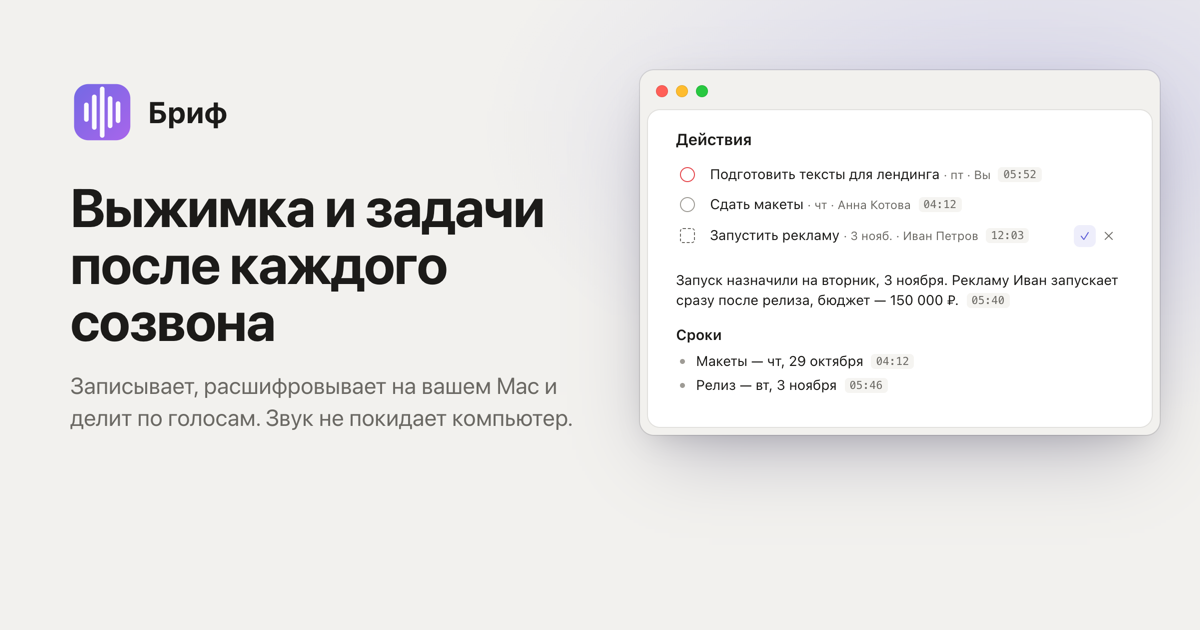
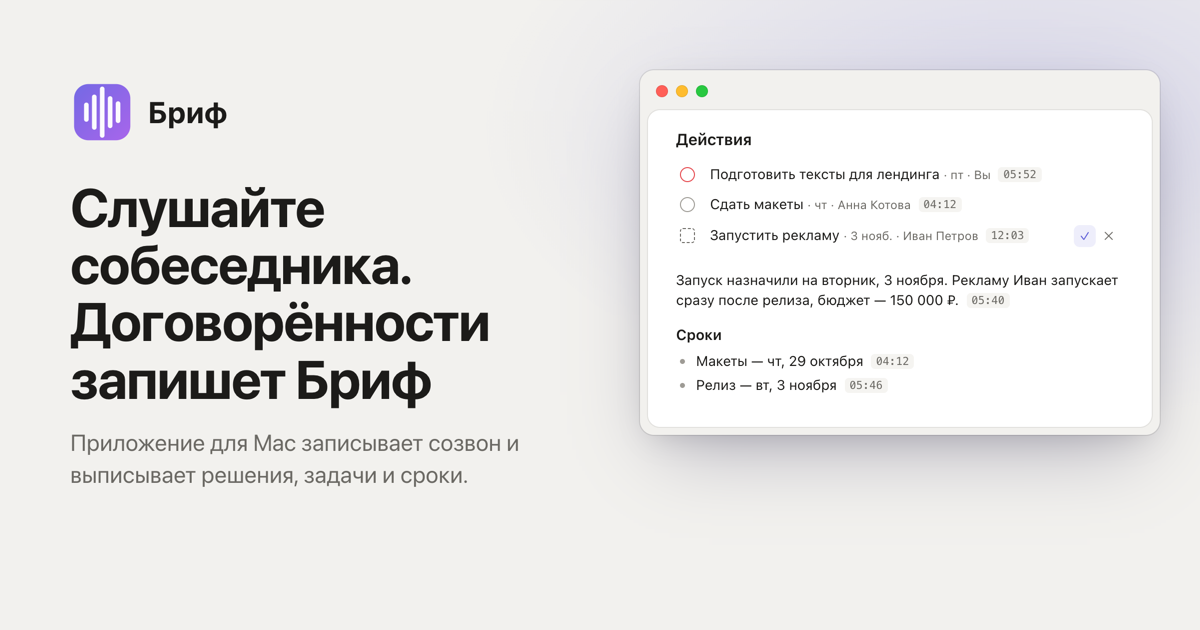
Сайт: 4d17543

Changed region(s): [[0.0617, 0.3016, 0.4933, 0.7841]]

diff --git a/index.html b/index.html
@@ -3,12 +3,12 @@
 <head>
 <meta charset="utf-8">
 <meta name="viewport" content="width=device-width, initial-scale=1">
-<title>Бриф — записывает созвоны и делает выжимку с задачами · macOS</title>
+<title>Бриф — слушайте собеседника, договорённости запишет Бриф · macOS</title>
 <meta name="description" content="Приложение для Mac: записывает созвон, расшифровывает его на компьютере, делит по голосам и собирает выжимку с задачами. Звук не покидает Mac.">
 <meta property="og:type" content="website">
 <meta property="og:locale" content="ru_RU">
-<meta property="og:title" content="Бриф — выжимка и задачи после каждого созвона">
-<meta property="og:description" content="Записывает созвон, расшифровывает на вашем Mac, делит по голосам и собирает договорённости. Сейчас бесплатно.">
+<meta property="og:title" content="Слушайте собеседника. Договорённости запишет Бриф">
+<meta property="og:description" content="Приложение для Mac записывает созвон и выписывает решения, задачи и сроки. Звук не покидает компьютер. Сейчас бесплатно.">
 <meta property="og:image" content="https://23brezhnev.github.io/brif-releases/assets/og.png">
 <meta property="og:image:width" content="1200">
 <meta property="og:image:height" content="630">
@@ -41,9 +41,9 @@
 <!-- 1. Первый экран -->
 <section class="hero">
   <div class="wrap">
-    <span class="eyebrow"><span>Приложение для macOS</span><span>·</span><b>сейчас бесплатно</b></span>
-    <h1>Записывает созвоны и собирает из них выжимку с задачами</h1>
-    <p class="lead">Бриф пишет звук звонка и ваш микрофон, расшифровывает разговор на вашем Mac, делит его по голосам и выписывает договорённости. Звук никуда не уходит: модели для выжимки отправляется только текст.</p>
+    <span class="eyebrow"><span>Для macOS</span><span>·</span><b>сейчас бесплатно</b></span>
+    <h1>Слушайте собеседника.<br> Договорённости запишет&nbsp;Бриф</h1>
+    <p class="lead">Приложение для Mac записывает созвон и выписывает решения, задачи и сроки. Звук не покидает компьютер.</p>
     <div class="cta">
       <a class="btn mac-only" data-download href="https://github.com/23brezhnev/brif-releases/releases/latest">
         <svg viewBox="0 0 24 24" fill="none" stroke="currentColor" stroke-width="2.2" stroke-linecap="round" stroke-linejoin="round"><path d="M12 4v11m0 0-4.5-4.5M12 15l4.5-4.5M5 20h14"/></svg>

diff --git a/og.html b/og.html
@@ -12,8 +12,8 @@
   .r .mac { max-width: none; }
 </style></head><body>
 <div class="l"><div class="b"><img src="assets/icon.png" alt="">Бриф</div>
-  <h1>Выжимка и задачи после каждого созвона</h1>
-  <p>Записывает, расшифровывает на вашем Mac и делит по голосам. Звук не покидает компьютер.</p></div>
+  <h1>Слушайте собеседника. Договорённости запишет Бриф</h1>
+  <p>Приложение для Mac записывает созвон и выписывает решения, задачи и сроки.</p></div>
 <div class="r"><div class="mac compact"><div class="lights"><i></i><i></i><i></i></div><div class="sheet"><div class="content">
   <div class="actions"><h6>Действия</h6>
     <div class="act ok hi"><span class="box"></span><div><span class="tt">Подготовить тексты для лендинга</span><span class="mm">· пт · Вы</span> <span class="cite">05:52</span></div><div class="btns"></div></div>

diff --git a/styles.css b/styles.css
@@ -69,7 +69,7 @@ img { max-width: 100%; display: block; }
 .eyebrow { display: inline-flex; gap: 8px; align-items: center; font-size: 14px; color: var(--text-2);
   padding: 6px 12px; border-radius: 999px; background: rgba(255,255,255,.7); box-shadow: inset 0 0 0 1px var(--hairline); }
 .eyebrow b { color: var(--accent); font-weight: 600; }
-.hero h1 { font-size: clamp(38px, 6vw, 64px); line-height: 1.05; letter-spacing: -.025em; margin: 22px auto 18px; max-width: 900px; }
+.hero h1 { font-size: clamp(38px, 6vw, 64px); line-height: 1.05; letter-spacing: -.025em; margin: 22px auto 18px; max-width: 1040px; }
 .hero .lead { font-size: clamp(18px, 2.2vw, 21px); color: var(--text-2); max-width: 720px; margin: 0 auto 30px; }
 .hero .cta { display: flex; gap: 12px; justify-content: center; flex-wrap: wrap; }
 .hero-stage { margin-top: 52px; }
